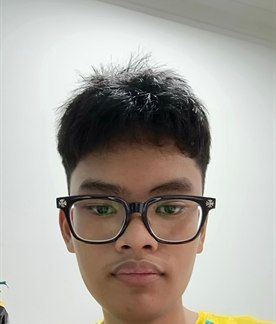
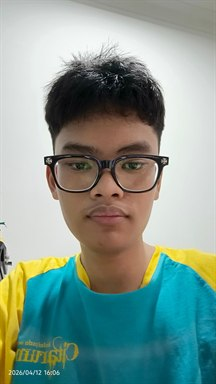
fix(postcard): fit full portrait within stamp frame

diff --git a/resources/css/app.css b/resources/css/app.css
@@ -2224,13 +2224,13 @@
 
     .postcard__stamp {
         display: block;
-        width: 46px;
-        height: 54px;
+        width: 36px;
+        height: 64px;
         flex: 0 0 auto;
         border: 2px dashed var(--color-rust);
         border-radius: 4px;
         background: var(--color-paper);
-        object-fit: cover;
+        object-fit: contain;
         box-shadow: 0 2px 6px -3px rgb(44 24 16 / 0.45);
     }
 

diff --git a/resources/views/components/desk/postcard.blade.php b/resources/views/components/desk/postcard.blade.php
@@ -7,8 +7,8 @@
         class="postcard__stamp"
         src="{{ asset('images/postcard-stamp.jpg') }}"
         alt=""
-        width="46"
-        height="54"
+        width="36"
+        height="64"
         decoding="async"
     >
     <span>
